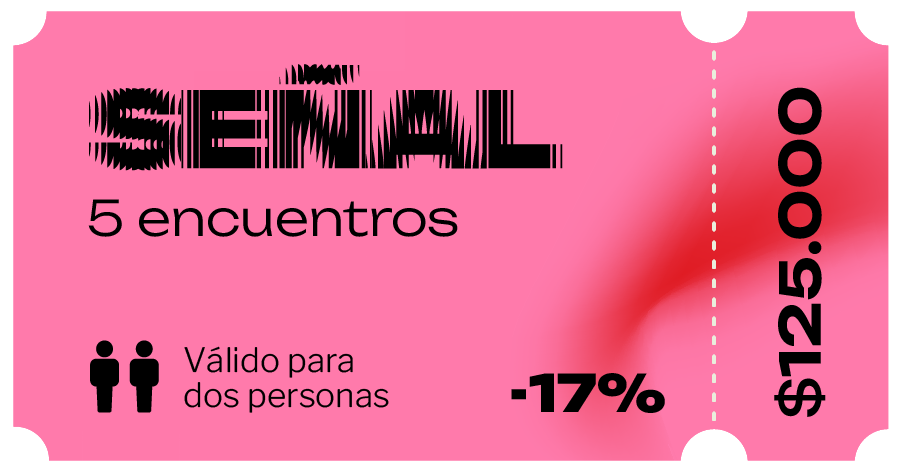
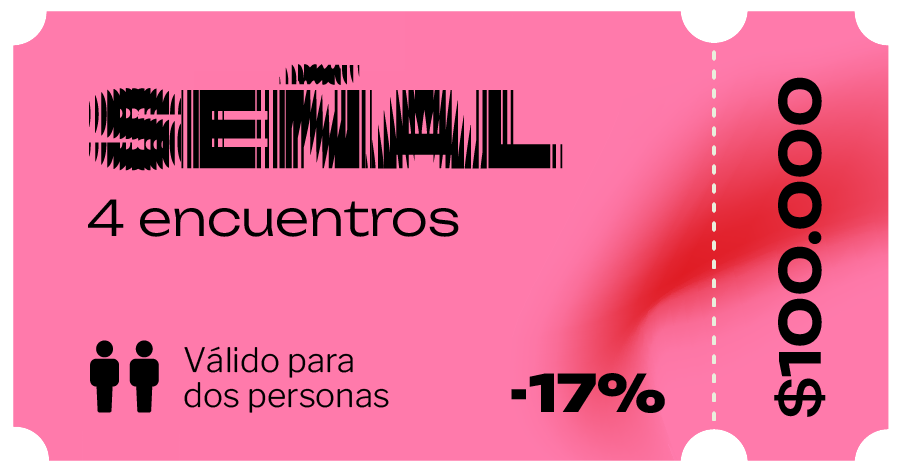
update ticket rosa

diff --git a/src/componentes/Section5.js b/src/componentes/Section5.js
@@ -100,7 +100,7 @@ function Section({ minHeight }) {
                     </span>
                     <div className="text-black  font-unbounded  ml-2 font-normal text-left text-xs sd:text-xl md:text-xl lg:text-xl xl:text-xl ">
                     Acceso para dos personas a{" "}
-                      <span className="font-bold">5 encuentros</span> SEÑAL consecutivos.
+                      <span className="font-bold">4 encuentros</span> SEÑAL consecutivos.
                     </div>
                   </div>
                   <div className="flex items-start">
@@ -110,17 +110,6 @@ function Section({ minHeight }) {
                     <div className="text-black  font-unbounded  ml-2 font-normal text-left text-xs sd:text-xl md:text-xl lg:text-xl xl:text-xl ">
                       <span className="font-bold">Visitas Antenna</span>{" "}
                       seleccionadas.
-                    </div>
-                  </div>
-                  <div className="flex items-start">
-                    <span className="material-icons w-3 h-3  mt-0 sd:w-6 sd:h-6  md:w-6 md:h-6  lg:w-6 lg:h-6  xl:w-6 sd:mt-1.5 md:mt-1.5 lg:mt-1.5 xl:mt-1.5 xl:h-6 text-pink-400">
-                      <MdTripOrigin />
-                    </span>
-                    <div className="text-black  font-unbounded  ml-2 font-normal text-left text-xs sd:text-xl md:text-xl lg:text-xl xl:text-xl ">
-                      <span className="font-bold">
-                        Acceso fiesta aniversario
-                      </span>{" "}
-                      Antenna.
                     </div>
                   </div>
                 </div>
